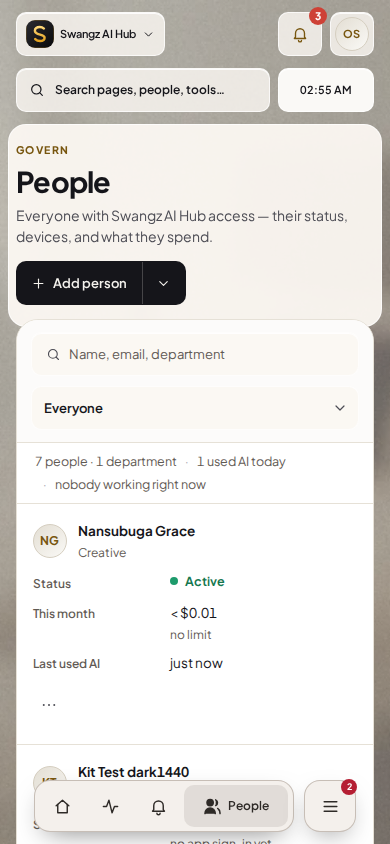
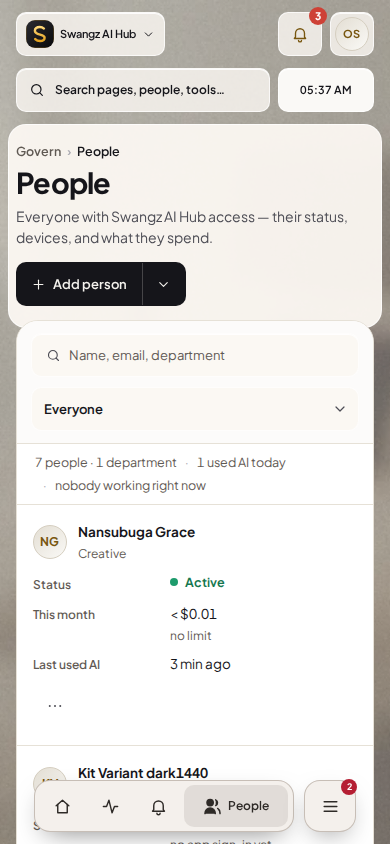
People: 44px row More on phones; email required and marked invalid on error

diff --git a/gateway/static/admin-govern.js b/gateway/static/admin-govern.js
@@ -171,7 +171,7 @@
       name: el("input", { type: "text", value: p.name || "", required: true }),
       title: el("input", { type: "text", value: p.title || "", placeholder: "e.g. Director" }),
       department: el("input", { type: "text", value: p.department || "", placeholder: "e.g. Production" }),
-      email: el("input", { type: "email", value: p.email || "" }),
+      email: el("input", { type: "email", value: p.email || "", required: !!o.brief }),
       daily_budget: el("input", { type: "number", min: "0", step: "0.01", value: p.daily_budget ?? "", placeholder: "no limit" }),
       monthly_budget: el("input", { type: "number", min: "0", step: "0.01", value: p.monthly_budget ?? "", placeholder: "no limit" }),
       allowed_models: el("input", { type: "text", value: p.allowed_models || "", placeholder: "all models" }),
@@ -205,15 +205,18 @@
     const shown = o.brief ? ["name", "title", "department", "email", "access_until"] : Object.keys(f);
     const values = () => Object.fromEntries(shown.map((k) => [k, f[k].type === "checkbox" ? f[k].checked : f[k].value]));
     /* Says what is missing under the field, and puts focus on the first problem. */
+    const mark = (input, node, message) => { node.textContent = message; if (message) input.setAttribute("aria-invalid", "true"); else input.removeAttribute("aria-invalid"); };
     function check() {
-      nameErr.textContent = f.name.value.trim() ? "" : "Enter their name.";
-      emailErr.textContent = f.email.value.trim() ? "" : "Enter their Swangz email. They sign in with it.";
+      mark(f.name, nameErr, f.name.value.trim() ? "" : "Enter their name.");
+      mark(f.email, emailErr, f.email.value.trim() ? "" : "Enter their Swangz email. They sign in with it.");
       const bad = nameErr.textContent ? f.name : emailErr.textContent ? f.email : null;
       if (bad) bad.focus();
       return !bad;
     }
-    f.name.addEventListener("blur", () => { if (o.brief && nameErr.textContent) nameErr.textContent = f.name.value.trim() ? "" : "Enter their name."; });
-    return { node, values, check, focus: () => f.name.focus() };
+    f.name.addEventListener("blur", () => { if (o.brief && nameErr.textContent) mark(f.name, nameErr, f.name.value.trim() ? "" : "Enter their name."); });
+    /* The server refused the address: say so under the field, like any other problem with it. */
+    const refuseEmail = (message) => { mark(f.email, emailErr, message); f.email.focus(); };
+    return { node, values, check, refuseEmail, focus: () => f.name.focus() };
   }
 
   /* What to open once the new person's record has drawn. Held here, not in the address: a link must never be able
@@ -234,7 +237,7 @@
           afterAdd = then ? { id: out.id, then } : null;
           sheet.close(true);
           location.hash = "#/people/" + out.id;
-        } catch (e) { err.textContent = e.message; }
+        } catch (e) { if (/\b(email|address)\b/i.test(e.message)) form.refuseEmail(e.message); else err.textContent = e.message; }
       } } });
   }
 

diff --git a/gateway/static/admin.css b/gateway/static/admin.css
@@ -279,7 +279,7 @@ a.obj:hover > span { text-decoration: underline; text-underline-offset: 3px; }
 .unit-wrap { display: inline-flex; flex-direction: column; align-items: flex-start; gap: 5px; }
 .field-err { color: var(--bad-hi); font-size: 12.5px; line-height: 1.4; white-space: normal; }
 .field-err:empty { display: none; }
-input[aria-invalid="true"] { border-color: var(--bad); }
+input[aria-invalid="true"]:not(:focus) { border-color: var(--bad); }
 .value-mono { font-family: var(--mono); font-size: 12.5px; color: var(--tx-1); overflow: hidden; text-overflow: ellipsis; white-space: nowrap; min-width: 0; }
 
 /* a switch is a checkbox that looks like one */
@@ -1512,6 +1512,8 @@ html[data-theme="light"] .kpis-exact.two .kpi .label > svg:first-child { backgro
   .route-overview .kpis-exact .kpi .label .u-info { flex: none; width: 44px; height: 44px; margin: -14px; }
   .route-overview .u-chart-foot button { flex: none; min-height: 44px; white-space: nowrap; }
 }
+/* A row's More button in phone cards: the card rule's min-width: 0 outranks the kit's 44px touch width. */
+@media (max-width: 640px) { .u-table.cards td > .u-more { min-width: 44px; } }
 /* ---- the control kit page (#/kit): specimens in a grid, each under the name of its state */
 .kit-grid { display: grid; grid-template-columns: repeat(auto-fill, minmax(220px, 1fr)); gap: 16px; }
 .kit-grid.wide { grid-template-columns: repeat(auto-fill, minmax(300px, 1fr)); }

diff --git a/docs/screenshots/people-l1/README.md b/docs/screenshots/people-l1/README.md
@@ -4,6 +4,7 @@ Captured by `tests/browser/people.cjs` in CI at 1440x852 and 390x844, in dark an
 The rows named "Kit Test" and "Kit Variant" are people the test adds as it goes.
 
 - `people-*`: the list, with the search and status filter, one ⋯ per row, and the split Add person button.
+- `people-add-*`: Add person with both required fields refused, each marked invalid.
 - `person-sheet-*`: the side sheet a row opens, with links into the record.
 - `person-tools-give-*`: their tools on the record's Access tab, one ⋯ per row, with the kit picker open to give another.
 - `person-record-*`: the record, with the trail and one Next step line under the description.
